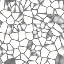
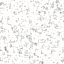
Tables: smooth leather on the dealer's padded rail instead of pebbled
Mike picked the smooth look (a faint fine grain) over the pebbles and a stitched option.
leather_grain.png is now the fine grain, drawn at 0.45 over the padding.

diff --git a/tools/build_art.py b/tools/build_art.py
@@ -7,7 +7,7 @@ Builds Casino World's generated art:
   client/assets/sprites/CREDITS.md              attribution for every LPC file used
   client/assets/tiles/carpet.png                the casino carpet tile (`build_art.py tiles` rebuilds just the tiles)
   client/assets/tiles/felt_grain.png            the grain drawn over the table felt
-  client/assets/tiles/leather_grain.png         the pebbled grain on the leather padding of the dealers' rail
+  client/assets/tiles/leather_grain.png         the fine grain on the leather padding of the dealers' rail
 
 Characters are composited by the server's art module (server/casino_server/art.py)
 from the Universal LPC Spritesheet Character Generator's layers, pinned to one
@@ -130,25 +130,24 @@ def build_felt_grain():
 
 
 def build_leather_grain():
-    """A 64x64 seamless pebbled grain for the leather padding on the dealers' rail: small
-    rounded pebbles (Voronoi cells over a tiled scatter of points), dark in the creases between
-    them and faintly lit on their tops towards the light, with soft alpha, drawn over the
-    leather colour."""
-    rng = random.Random(23)
+    """A 64x64 seamless fine grain for smooth leather: soft, barely-there light and dark
+    flecks (blurred noise), drawn faintly over the leather colour."""
+    from PIL import ImageFilter
+    rng = random.Random(31)
     size = 64
-    points = [(rng.uniform(0, size), rng.uniform(0, size)) for _ in range(110)]
-    tiled = [(x + dx * size, y + dy * size) for x, y in points for dx in (-1, 0, 1) for dy in (-1, 0, 1)]
+    noise = Image.new("L", (size, size))
+    noise.putdata([128 + round(rng.gauss(0, 40)) for _ in range(size * size)])
+    big = Image.new("L", (size * 3, size * 3))
+    for ty in range(3):
+        for tx in range(3):
+            big.paste(noise, (tx * size, ty * size))
+    noise = big.filter(ImageFilter.GaussianBlur(0.7)).crop((size, size, size * 2, size * 2)).load()
     img = Image.new("RGBA", (size, size))
     px = img.load()
     for y in range(size):
         for x in range(size):
-            near = sorted(((x + 0.5 - qx) ** 2 + (y + 0.5 - qy) ** 2, qx, qy) for qx, qy in tiled)[:2]
-            crease = near[1][0] ** 0.5 - near[0][0] ** 0.5   # 0 on the line between two pebbles
-            if crease < 1.2:
-                px[x, y] = (0, 0, 0, round(150 * (1 - crease / 1.2)))
-            else:  # the pebble's top: lit on the side facing the light (up the screen)
-                lit = (near[0][2] - (y + 0.5)) / max(1.0, near[0][0] ** 0.5)
-                px[x, y] = (255, 230, 200, max(0, round(45 * lit + rng.gauss(0, 6))))
+            n = (noise[x, y] - 128) / 128
+            px[x, y] = (255, 230, 200, min(255, round(n * 160))) if n > 0 else (0, 0, 0, min(255, round(-n * 200)))
     OUT_TILES.mkdir(parents=True, exist_ok=True)
     img.save(OUT_TILES / "leather_grain.png")
 

diff --git a/docs/tables.md b/docs/tables.md
@@ -6,7 +6,7 @@ How the tables are drawn and laid out in the client. The rules of each game are 
 
 The tables are drawn in code (`scenes/table/table_felt.gd` and each game's `*_felt.gd`), as is the room
 (`scenes/world/room.gd`), so they stay sharp at any zoom. The table is the "Mahogany & Brass" look: a wood
-rail with a brass bead (leather-padded on the dealer's side, with a slight pebbled grain from
+rail with a brass bead (leather-padded on the dealer's side, with a faint fine grain from
 `assets/tiles/leather_grain.png`, drawn by `TableFelt._padding()`), crimson felt, and cream printing in Cinzel (`client/assets/fonts/Cinzel-SemiBold.ttf`,
 SIL Open Font License, see `Cinzel-OFL.txt`). It is a static instance of the variable font with overlapping
 outlines merged (`fonttools varLib.instancer Cinzel[wght].ttf wght=600 --remove-overlaps`), because MSDF text
